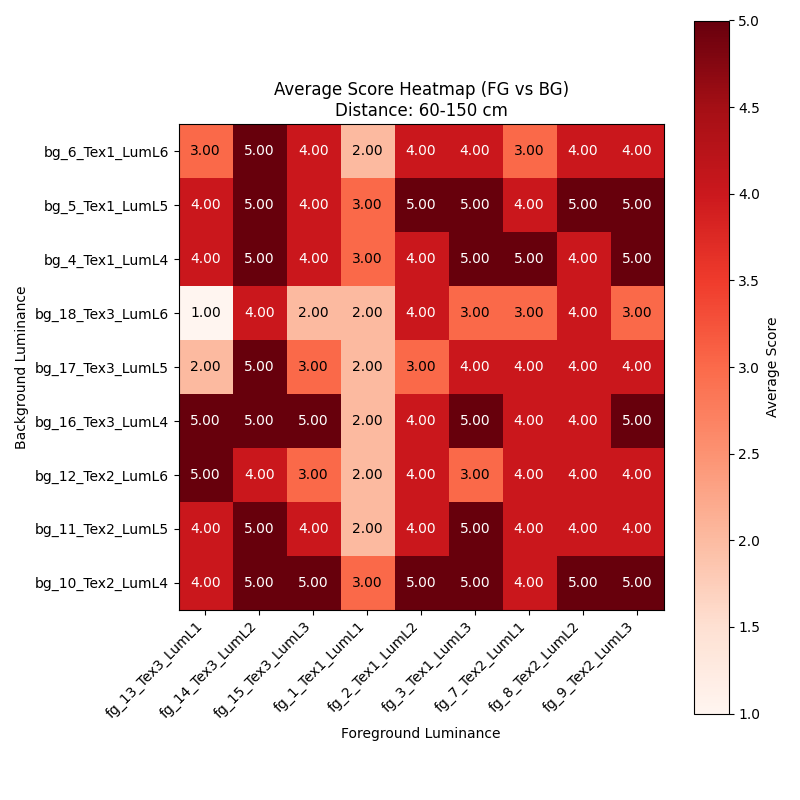
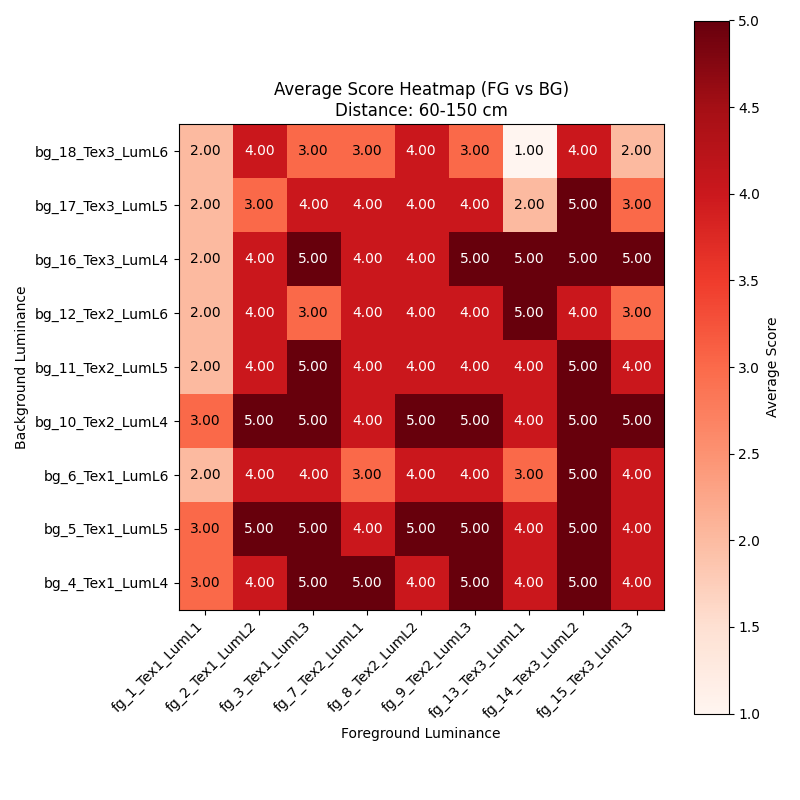
feature: FGおよびBG画像のラベル抽出ロジックを改善し、明示的なソートを追加

diff --git a/src/experiment/pre-analyze/pre-analyze-image.py b/src/experiment/pre-analyze/pre-analyze-image.py
@@ -98,27 +98,26 @@ def extract_label(filename, prefix):
     
     return str(filename)
 
-# 元のファイル名でソートして順序を決定（ファイル名先頭の番号が輝度ランク順になっているため）
-unique_files = sorted(final_df['Image_Win2'].unique())
-fg_labels = []
-seen = set()
-for f in unique_files:
-    lbl = extract_label(f, "fg")
-    if lbl not in seen:
-        fg_labels.append(lbl)
-        seen.add(lbl)
+# カテゴリの順序をTex -> Lumの順に明示的にソートする関数
+def get_sort_key(label):
+    tex_match = re.search(r'tex(\d+)', str(label), re.IGNORECASE)
+    tex_val = int(tex_match.group(1)) if tex_match else 999
+    
+    lum_match = re.search(r'lum[a-zA-Z]*(\d+)', str(label), re.IGNORECASE)
+    lum_val = int(lum_match.group(1)) if lum_match else 999
+    
+    return (tex_val, lum_val)
+
+# FG画像のラベル抽出とソート
+fg_raw_labels = final_df['Image_Win2'].apply(lambda x: extract_label(x, "fg")).unique()
+fg_labels = sorted(fg_raw_labels, key=get_sort_key)
 
 final_df['fg_image'] = final_df['Image_Win2'].apply(lambda x: extract_label(x, "fg"))
 final_df['fg_image'] = pd.Categorical(final_df['fg_image'], categories=fg_labels, ordered=True)
 
-unique_bg_files = sorted(final_df['Image_Win1'].unique())
-bg_labels = []
-seen_bg = set()
-for f in unique_bg_files:
-    lbl = extract_label(f, "bg")
-    if lbl not in seen_bg:
-        bg_labels.append(lbl)
-        seen_bg.add(lbl)
+# BG画像のラベル抽出とソート
+bg_raw_labels = final_df['Image_Win1'].apply(lambda x: extract_label(x, "bg")).unique()
+bg_labels = sorted(bg_raw_labels, key=get_sort_key)
 
 final_df['bg_image'] = final_df['Image_Win1'].apply(lambda x: extract_label(x, "bg"))
 final_df['bg_image'] = pd.Categorical(final_df['bg_image'], categories=bg_labels, ordered=True)
